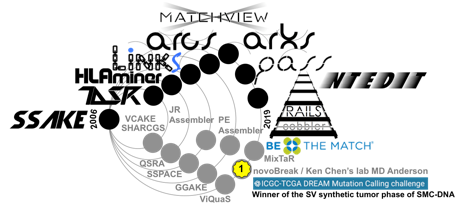
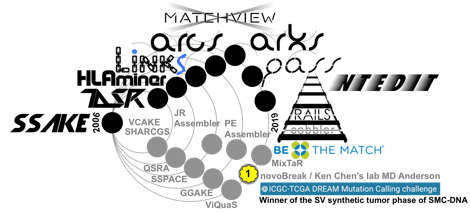
update to about

diff --git a/renewarren.ca/About.html b/renewarren.ca/About.html
@@ -190,8 +190,8 @@ new Paste('widget0', 'Scripts/Widgets/HTMLRegion', 'Scripts/Widgets/SharedResour
           
 
 
-          <div style="height: 206px; width: 457px;  height: 206px; left: 229px; position: absolute; top: 55px; width: 457px; z-index: 1; " class="tinyText style_SkipStroke_4 stroke_0">
-            <img src="About_files/tools.png" alt="" style="border: none; height: 207px; width: 457px; " />
+          <div style="height: 212px; width: 470px;  height: 212px; left: 231px; position: absolute; top: 48px; width: 470px; z-index: 1; " class="tinyText style_SkipStroke_4 stroke_0">
+            <img src="About_files/tools.png" alt="" style="border: none; height: 213px; width: 470px; " />
           </div>
           <div style="height: 799px; line-height: 799px; " class="spacer"> </div>
         </div>
